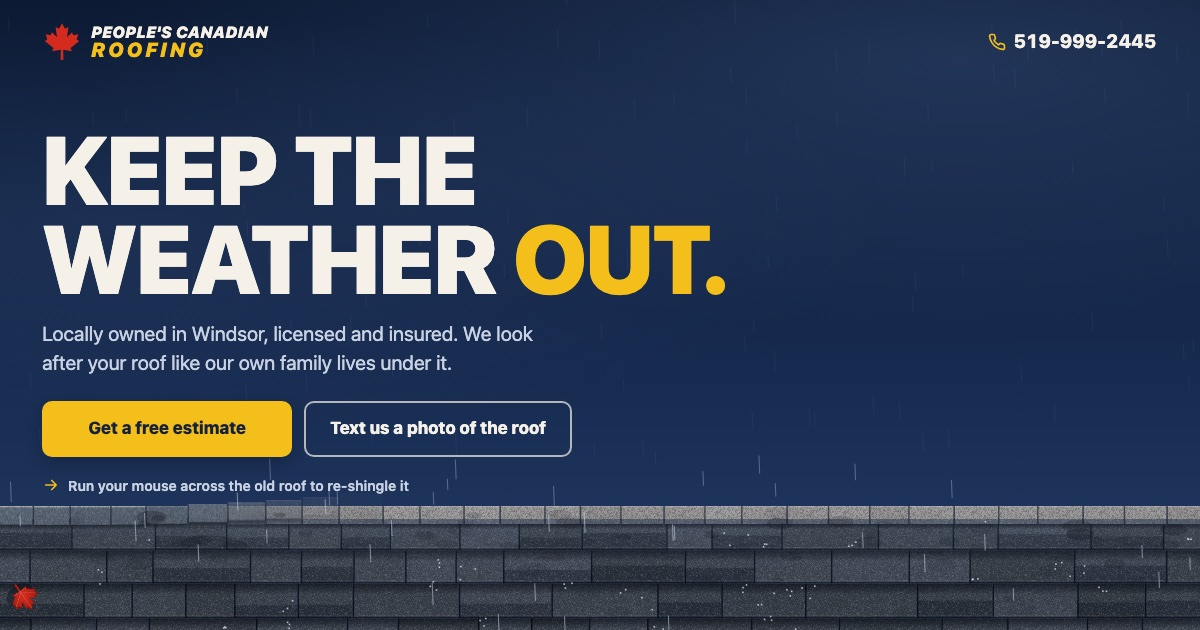
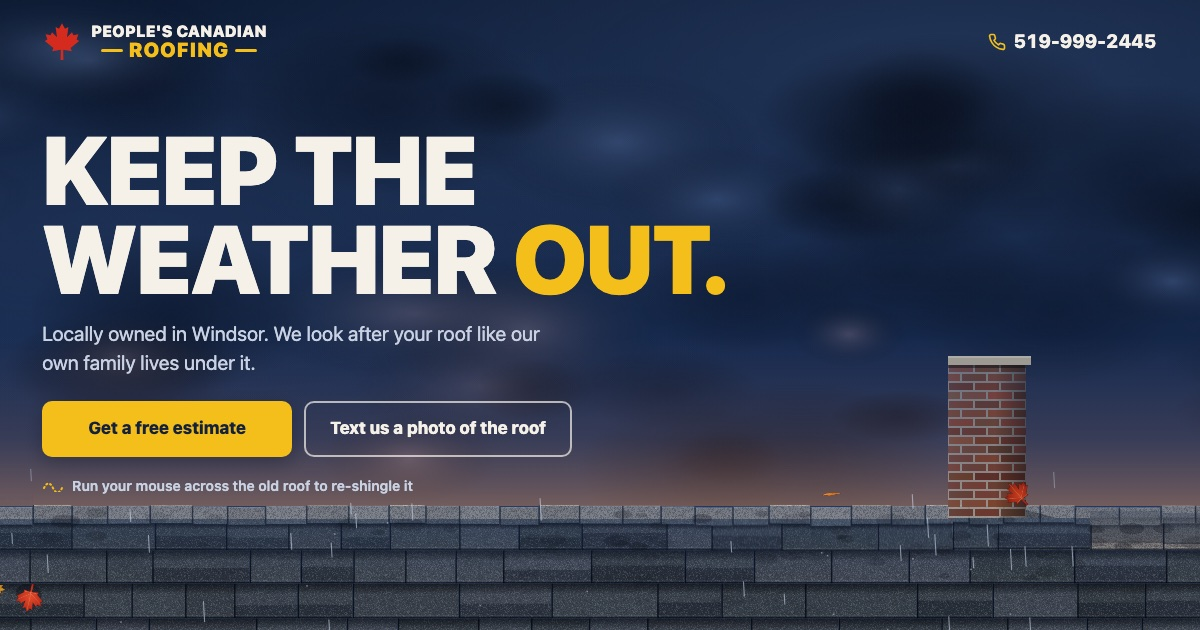
Dusk storm sky, form first on phones, refreshed link preview, handoff notes
Claude-Session: https://claude.ai/code/session_011DWkfBTo2r5ZtukBi9SpDA

diff --git a/index.html b/index.html
@@ -111,7 +111,11 @@ ul,ol{margin:0;padding:0;list-style:none}
 .step .n{grid-row:span 2;font-size:52px;font-weight:900;line-height:.9;color:var(--gold);font-variant-numeric:tabular-nums}
 .step h3{font-size:22px;line-height:1.15;margin-bottom:6px;padding-top:4px}
 .step p{color:var(--cream-2);max-width:42ch}
-.area{margin-bottom:32px}
+.estimate .wrap{display:flex;flex-direction:column}
+.est-side{display:contents}
+.estimate h2{order:1}
+form{order:2}
+.area{order:3;margin-top:44px}
 .area .big{font-size:clamp(20px,5.4vw,26px);font-weight:800;line-height:1.25;max-width:24ch}
 .towns{margin-top:10px;color:var(--ink-2);font-size:16px;line-height:1.7;max-width:46ch}
 
@@ -187,6 +191,7 @@ footer a{color:var(--cream);font-weight:700;display:inline-flex;align-items:cent
   .services h2{grid-column:1/-1;margin-bottom:6px}
   .care{margin-top:0}
   .estimate .wrap{display:grid;grid-template-columns:1fr 1fr;gap:72px;align-items:start}
+  .est-side{display:block}
   .area{margin-top:36px}
 }
 @media (prefers-reduced-motion:reduce){*{transition:none!important}}
@@ -601,13 +606,14 @@ var Leaves = (function(){
   // storm sky: soft cloud masses drifting with the wind (drawn at half size, they're soft anyway), last light behind the ridge
   function makeSky(){
     var k = 0.5, cw = Math.ceil(W * 2 * k), ch = Math.ceil(roofTop * k), c = document.createElement('canvas'); c.width = cw; c.height = Math.max(1, ch);
-    var x = c.getContext('2d'), r = rng(23), n = Math.round(W / 26);
+    var x = c.getContext('2d'), r = rng(23), n = Math.round(W / 18);
     for (var i = 0; i < n; i++) {
       var bx = r() * cw, by = ch * (0.08 + r() * 0.85), rx = (40 + r() * 120) * k * (isPhone() ? 0.8 : 1.2), ry = rx * (0.35 + r() * 0.25);
-      var light = r() < 0.55, a = light ? 0.10 + r() * 0.12 : 0.18 + r() * 0.2;
+      var light = r() < 0.5, a = light ? 0.2 + r() * 0.18 : 0.3 + r() * 0.22;
       for (var o = -cw; o <= cw; o += cw) {
         var g = x.createRadialGradient(bx + o, by, 0, bx + o, by, rx);
-        g.addColorStop(0, light ? 'rgba(92,118,165,' + a + ')' : 'rgba(6,13,30,' + a + ')'); g.addColorStop(1, 'rgba(0,0,0,0)');
+        var warm = light && by > ch * 0.6;
+        g.addColorStop(0, warm ? 'rgba(150,128,140,' + a + ')' : light ? 'rgba(100,126,176,' + a + ')' : 'rgba(5,11,26,' + a + ')'); g.addColorStop(1, 'rgba(0,0,0,0)');
         x.fillStyle = g; x.save(); x.translate(bx + o, by); x.scale(1, ry / rx); x.translate(-(bx + o), -by);
         x.beginPath(); x.arc(bx + o, by, rx, 0, 6.3); x.fill(); x.restore();
       }
@@ -618,9 +624,9 @@ var Leaves = (function(){
     if (!sky) return;
     var off = (s * 7) % sky.w;
     ctx.drawImage(sky.c, -off, 0, sky.w, sky.h); ctx.drawImage(sky.c, sky.w - off, 0, sky.w, sky.h);
-    var g = ctx.createLinearGradient(0, roofTop - 110, 0, roofTop);
-    g.addColorStop(0, 'rgba(150,140,160,0)'); g.addColorStop(1, 'rgba(196,166,150,.22)');
-    ctx.fillStyle = g; ctx.fillRect(0, roofTop - 110, W, 110);
+    var band = Math.min(170, roofTop * 0.35), g = ctx.createLinearGradient(0, roofTop - band, 0, roofTop);
+    g.addColorStop(0, 'rgba(160,110,100,0)'); g.addColorStop(0.6, 'rgba(190,120,95,.18)'); g.addColorStop(1, 'rgba(232,150,96,.42)');
+    ctx.fillStyle = g; ctx.fillRect(0, roofTop - band, W, band);
   }
   function blit(src, t, dy, alpha){
     var sx = Math.max(0, t.x), ex = Math.min(W, t.x + t.w); if (ex <= sx) return;

diff --git a/HANDOFF.md b/HANDOFF.md
@@ -4,16 +4,16 @@
 
 ## What's built
 - One page, `index.html`, single file (~55KB, no images except the og/touch icon files beside it), phone-first.
-- **World:** a fall storm over a Windsor roof. Navy storm sky, flag red, flyer gold, cool flag-white paper; heavy uppercase system type, italic wordmark like the flyer's lettering.
+- **World:** a fall storm at dusk over a Windsor roof. Navy storm sky with drifting cloud masses and last light behind the ridge, flag red, flyer gold, cool flag-white paper; heavy uppercase system type; the wordmark follows the flyer (upright caps, ROOFING in gold between two gold bars). On desktop a brick chimney stands in the right-hand sky.
 - **Signature element (hero):** a live canvas roof of old, weathered shingles (moss, algae streaks, curled corners, missing tabs showing felt and nails) under rain, with maple leaves blowing across and landing on it. Drag a finger (any direction) or run the mouse across it and new slate shingles drop into place; rain soaks dark patches into the old shingles and splashes off the new ones; leaves get blown off as you work. Untouched for 5s, a "roofer" lays it course by course from the eave up, admires it, then it weathers back and starts again. Leaves and rain stay out of the text.
 - **Carried through the page:** navy sections end in a white aluminum eavestrough (the How-it-works one has two courses of new shingles above it) that grows and drops water into the next section; a hand passing near the gutter knocks the drops loose.
-- **Sections:** header (maple-leaf wordmark, 519-999-2445 top right) · hero ("Keep the weather out.", promise, *Get a free estimate* + outlined *Text us a photo of the roof*) · What we do (two service rows → form with that service preselected; care line; Licensed & insured / Free estimates / Locally owned) · How it works (3 steps) + where we work · Free-estimate form (name, phone, address, need, notes → pre-filled text message to 519-999-2445, inline errors, "Didn't open? Call" fallback) · red close with the big tap-to-call number · footer.
+- **Sections:** header (maple-leaf wordmark, 519-999-2445 top right) · hero ("Keep the weather out.", promise, *Get a free estimate* + outlined *Text us a photo of the roof*) · What we do (two service rows → form with that service preselected; care line; Licensed & insured / Free estimates) · How it works (3 steps) · Free estimate (where we work + towns beside the form on desktop; name, phone, address, need, notes → pre-filled text message to 519-999-2445, inline errors) · red close with the big tap-to-call number right after the form · footer.
 - Tunables are in the `TUNE` object at the top of the script (brush size, speeds, rain/leaf counts, wind, idle time, drip spacing).
 
 ## Assumptions I made
 - **Voice "we":** roofing is crew work; crew size is unknown.
 - **Colors:** taken from the flyer (flag red, flag white, flyer gold, flyer navy panel). There's no logo file; the wordmark is set in the site's own type with a drawn maple leaf, and the favicon/home-screen icon is that leaf on navy.
-- **Texting:** the brief says texts are unknown and the flyer only says "Call". 519-999 looks like a cell number, so I wired the hero secondary button and the estimate form to SMS, with the number always one tap away (header, form fallback, close, footer). **Confirm he can take texts**, or switch the form to call-first.
+- **Texting:** the brief says texts are unknown and the flyer only says "Call". 519-999 looks like a cell number, so I wired the hero secondary button and the estimate form to SMS. The number is still always one tap away: in the header, and in the red close directly under the form. **Confirm he can take texts**, or switch the form to call-first.
 - **Step 2 copy** ("We look at your roof and tell you straight what it needs and what it will cost") assumes the free estimate is an in-person look.
 - **Towns list** (Windsor, LaSalle, Tecumseh, Lakeshore, Amherstburg, Essex, Kingsville, Leamington, Chatham, Wallaceburg, Tilbury) is my expansion of "Windsor-Essex County & Chatham-Kent"; the flyer names only the regions.
 - **Care copy** ("We look after your roof like our own family lives under it", "the only thing between your family and a Windsor winter") is mine, written in the owner's voice; swap in his words when you have them.
